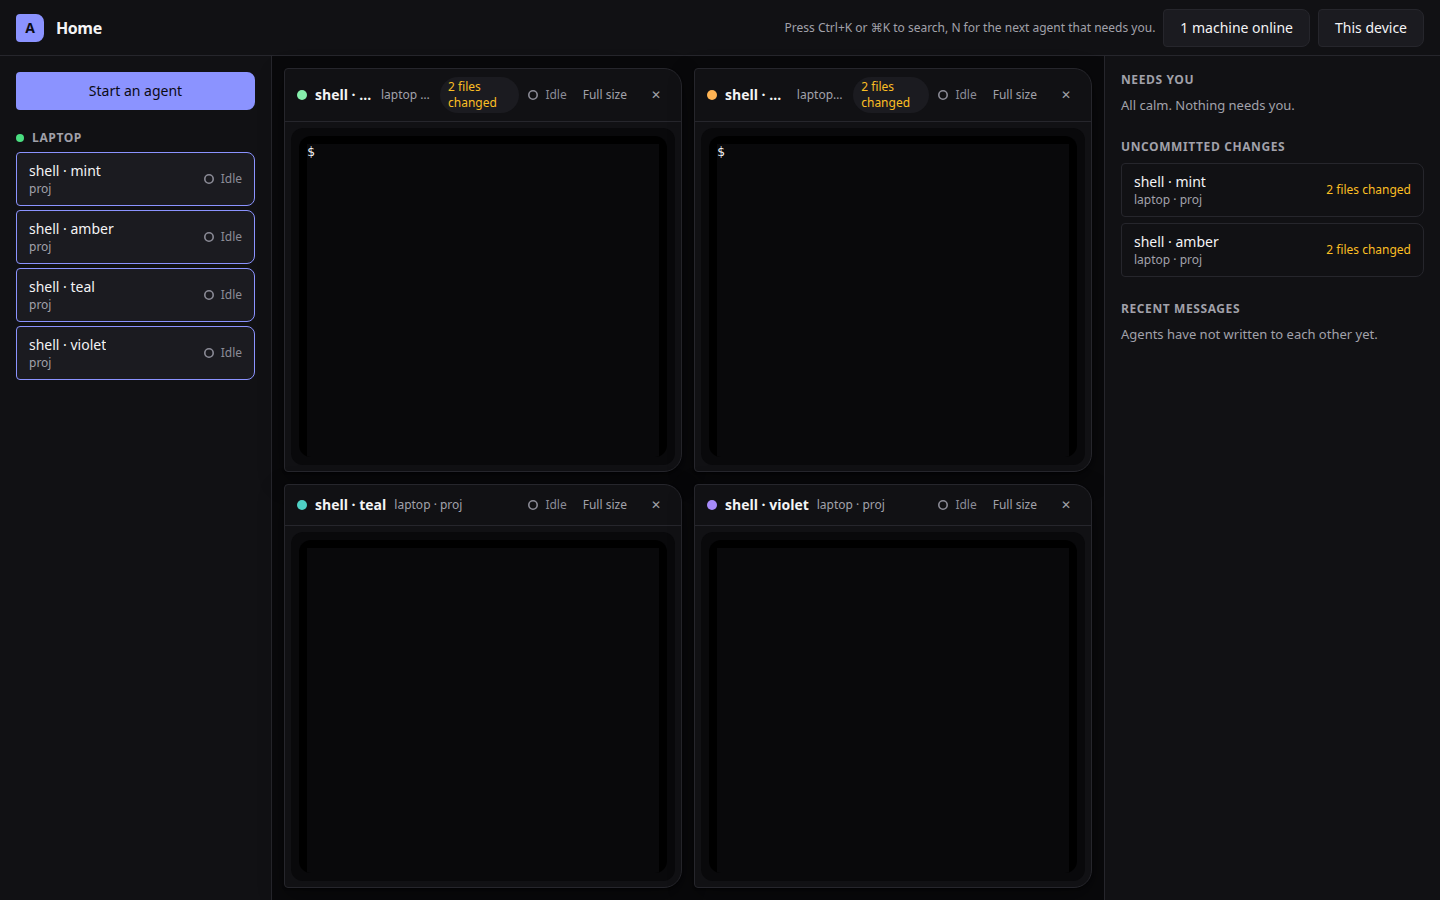
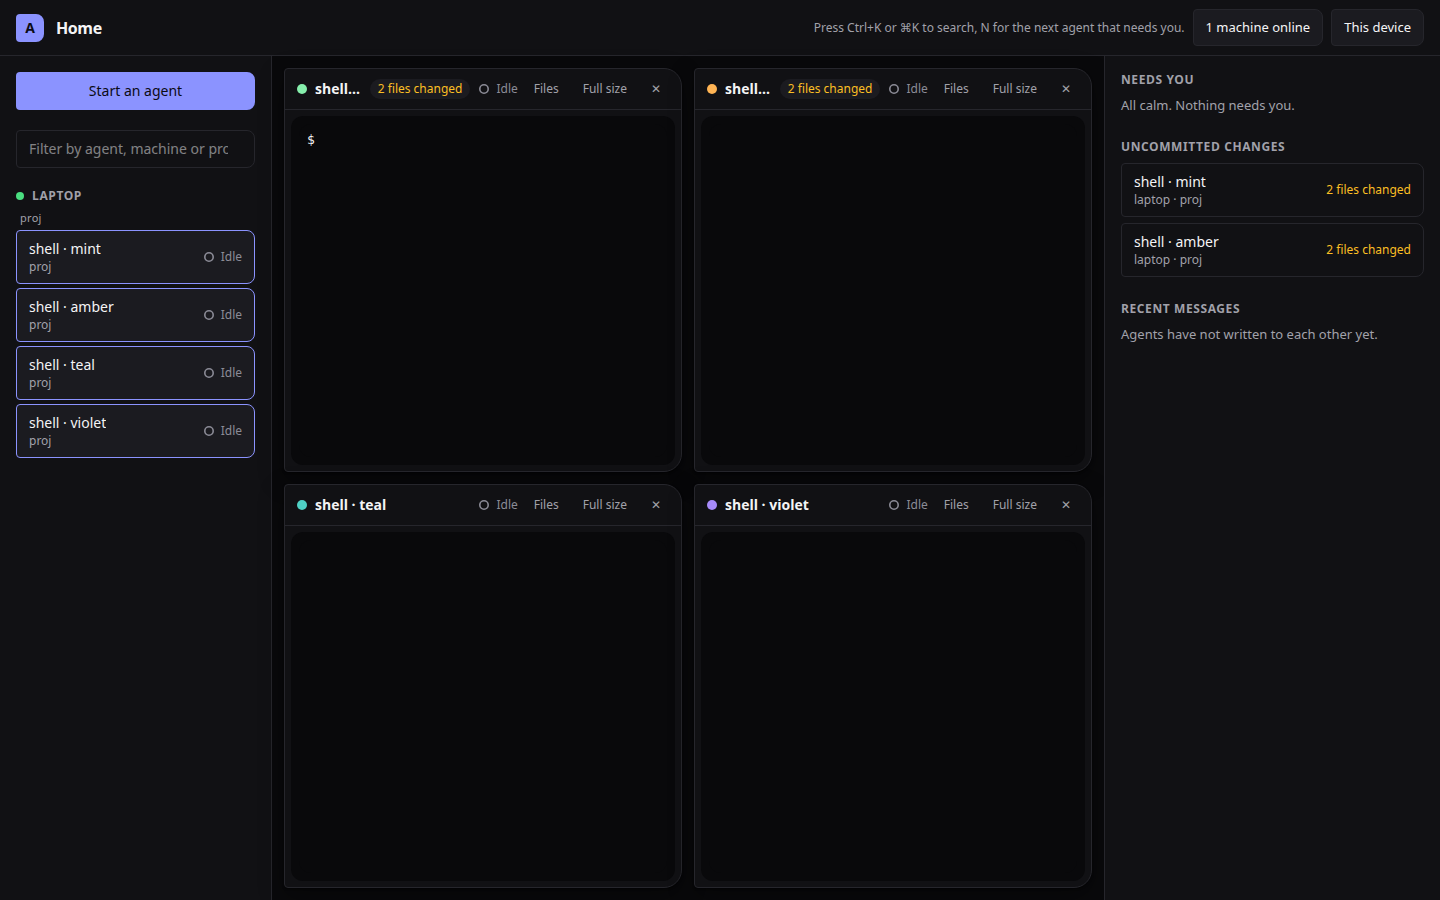
feat(web): sidebar groups agents by machine and project, with a filter box

diff --git a/apps/web/src/components/Console.tsx b/apps/web/src/components/Console.tsx
@@ -37,6 +37,7 @@ export function Console({ agents, machines, usage, projects = [], approvals, mes
   const [pinned, setPinned] = useState<string[]>([]);
   const touched = useRef(false);
   const [reviewing, setReviewing] = useState<string | undefined>();
+  const [filter, setFilter] = useState('');
   const [browsing, setBrowsing] = useState<string | undefined>();
 
   // Until the user picks for themselves, watch the first few agents (those that need you come first). A new agent joins
@@ -53,11 +54,19 @@ export function Console({ agents, machines, usage, projects = [], approvals, mes
     setPinned((cur) => (cur.includes(id) ? cur.filter((x) => x !== id) : [...cur, id]));
   };
 
+  // machine → project → agents, after the search box (matches name, machine, project or workspace).
   const byMachine = useMemo(() => {
-    const groups = new Map<string, AgentTileModel[]>();
-    for (const a of fleet) groups.set(a.machine, [...(groups.get(a.machine) ?? []), a]);
+    const q = filter.trim().toLowerCase();
+    const groups = new Map<string, Map<string, AgentTileModel[]>>();
+    for (const a of fleet) {
+      if (q && ![a.name, a.machine, a.project ?? '', a.workspace].some((x) => x.toLowerCase().includes(q))) continue;
+      const projects = groups.get(a.machine) ?? new Map<string, AgentTileModel[]>();
+      const key = a.project ?? '';
+      projects.set(key, [...(projects.get(key) ?? []), a]);
+      groups.set(a.machine, projects);
+    }
     return groups;
-  }, [fleet]);
+  }, [fleet, filter]);
   const shown = pinned.map((id) => fleet.find((a) => a.id === id)).filter((a): a is AgentTileModel => !!a);
   const attention = needsAttention(fleet);
   const changed = fleet.filter((a) => (a.filesChanged ?? 0) > 0).sort((a, b) => (b.filesChanged ?? 0) - (a.filesChanged ?? 0));
@@ -82,8 +91,9 @@ export function Console({ agents, machines, usage, projects = [], approvals, mes
         <aside className="order-3 flex min-h-0 flex-col gap-5 overflow-y-auto border-line bg-surface-1 p-4 lg:order-1 lg:border-r" aria-label={t('console-agents')}>
           <button type="button" className="button button--primary w-full" disabled={!onStart} onClick={onStart}>{t('action-start-agent')}</button>
           {start}
-          {machines.length === 0 && byMachine.size === 0 && <p className="muted">{t('machines-empty')}</p>}
-          {[...byMachine.entries()].map(([machine, list]) => {
+          {fleet.length > 1 && <input type="search" value={filter} onChange={(e) => setFilter(e.target.value)} placeholder={t('filter-placeholder')} aria-label={t('filter-placeholder')} className="w-full" />}
+          {machines.length === 0 && byMachine.size === 0 && !filter && <p className="muted">{t('machines-empty')}</p>}
+          {[...byMachine.entries()].map(([machine, projects]) => {
             const m = machines.find((x) => x.name === machine);
             return (
               <section key={machine} className="grid gap-1.5">
@@ -91,23 +101,29 @@ export function Console({ agents, machines, usage, projects = [], approvals, mes
                   <span aria-hidden className={`size-2 rounded-full ${m && !m.online ? 'bg-unknown' : 'bg-finished'}`} />
                   {machine}
                 </h2>
-                <ul className="m-0 grid list-none gap-1 p-0">
-                  {list.map((a) => (
-                    <li key={a.id}>
-                      <button type="button" aria-pressed={pinned.includes(a.id)} onClick={() => toggle(a.id)}
-                        className={`flex w-full items-center justify-between gap-2 rounded-s border px-3 py-2 text-left transition-colors hover:bg-surface-2 ${pinned.includes(a.id) ? 'border-accent bg-surface-2' : 'border-transparent'}`}>
-                        <span className="min-w-0">
-                          <span className="block truncate font-medium">{a.name}</span>
-                          <span className="block truncate text-xs text-muted">{a.workspace}</span>
-                        </span>
-                        <StateBadge state={a.state} />
-                      </button>
-                    </li>
-                  ))}
-                </ul>
+                {[...projects.entries()].map(([project, list]) => (
+                  <div key={project} className="grid gap-1">
+                    {project && <h3 className="m-0 px-1 text-[11px] font-medium tracking-wide text-muted">{project}</h3>}
+                    <ul className="m-0 grid list-none gap-1 p-0">
+                      {list.map((a) => (
+                        <li key={a.id}>
+                          <button type="button" aria-pressed={pinned.includes(a.id)} onClick={() => toggle(a.id)}
+                            className={`flex w-full items-center justify-between gap-2 rounded-s border px-3 py-2 text-left transition-colors hover:bg-surface-2 ${pinned.includes(a.id) ? 'border-accent bg-surface-2' : 'border-transparent'}`}>
+                            <span className="min-w-0">
+                              <span className="block truncate font-medium">{a.name}</span>
+                              <span className="block truncate text-xs text-muted">{a.workspace}</span>
+                            </span>
+                            <StateBadge state={a.state} />
+                          </button>
+                        </li>
+                      ))}
+                    </ul>
+                  </div>
+                ))}
               </section>
             );
           })}
+          {fleet.length > 0 && byMachine.size === 0 && <p className="muted">{t('filter-none')}</p>}
           {fleet.length === 0 && <p className="muted">{t('fleet-empty')}</p>}
         </aside>
 
@@ -121,8 +137,7 @@ export function Console({ agents, machines, usage, projects = [], approvals, mes
                   <header className="flex flex-none items-center justify-between gap-2 border-b border-line px-3 py-2">
                     <div className="flex min-w-0 items-center gap-2">
                       <span aria-hidden className="size-2.5 flex-none rounded-full" style={{ background: a.accent }} />
-                      <strong className="truncate">{a.name}</strong>
-                      <span className="hidden truncate text-xs text-muted xl:inline">{a.machine} · {a.workspace}</span>
+                      <strong className="truncate" title={`${a.machine} · ${a.workspace}`}>{a.name}</strong>
                       {(a.filesChanged ?? 0) > 0 && (loadDiff
                         ? <button type="button" className="rounded-full bg-surface-2 px-2 py-0.5 text-xs whitespace-nowrap text-needs-you hover:brightness-125" onClick={() => setReviewing(a.id)}>{t('changes-files', { count: a.filesChanged ?? 0 })}</button>
                         : <span className="rounded-full bg-surface-2 px-2 py-0.5 text-xs whitespace-nowrap text-needs-you">{t('changes-files', { count: a.filesChanged ?? 0 })}</span>)}

diff --git a/apps/web/src/model.ts b/apps/web/src/model.ts
@@ -14,6 +14,7 @@ export interface AgentTileModel {
   tokens?: number; // tokens used so far (input + output); the estimated cost comes separately from the hub (`usage.report`, ADR-0033)
   reportedBy?: 'agent' | 'screen'; // where the state came from, shown by "why?"
   branch?: string; // the workspace's branch, when it has one
+  project?: string; // the project's folder name, to group agents by project
   workspaceRef?: { node: string; id: string }; // where to ask the node about this workspace (`git.diff`)
   filesChanged?: number; // files with uncommitted changes in the agent's workspace
 }

diff --git a/apps/web/src/net/view.ts b/apps/web/src/net/view.ts
@@ -207,6 +207,7 @@ export function tiles(v: View): AgentTileModel[] {
       tokens: a.tokens,
       reportedBy: a.reported ? 'agent' : 'screen',
       workspaceRef: wt ? { node: a.nodeId, id: a.worktreeId.slice(a.worktreeId.indexOf('/') + 1) } : undefined,
+      project: wt ? lastSegment(v.checkouts.get(wt.checkoutId)?.path ?? '') || undefined : undefined,
       branch: wt?.branch || undefined,
       filesChanged: wt?.filesChanged ?? 0,
     };

diff --git a/apps/web/src/net/live.test.ts b/apps/web/src/net/live.test.ts
@@ -34,6 +34,7 @@ describe('view', () => {
     applyEvent(v, 5, ev('n', 5, { agentStarted: { agentId: 'b', nodeId: 'n', worktreeId: 'w2', kind: 'shell' } }));
     const t = tiles(v);
     expect(t.find((x) => x.id === 'n/a')?.workspace).toBe('shop');
+    expect(t.find((x) => x.id === 'n/a')?.project).toBe('shop');
     expect(t.find((x) => x.id === 'n/b')?.workspace).toBe('shop (login-fix)');
   });
 
